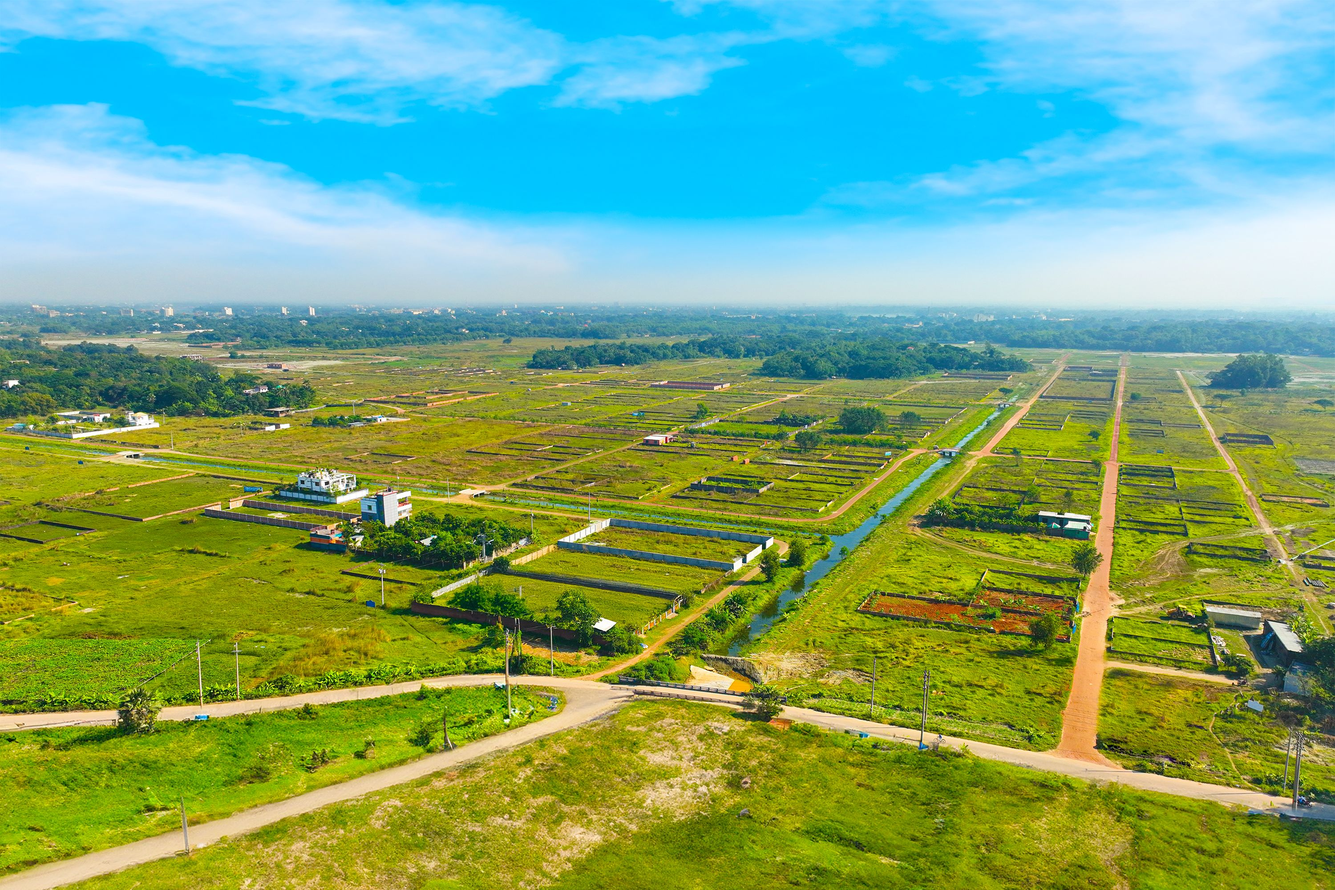
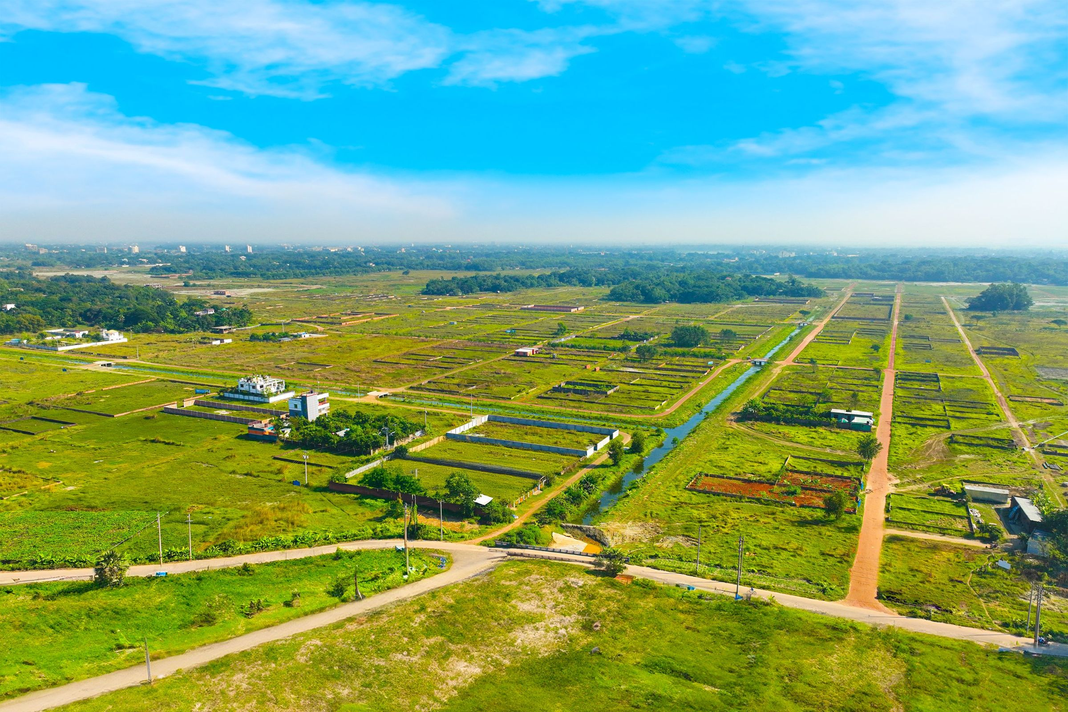
updtaed

diff --git a/components/AboutUsSection.jsx b/components/AboutUsSection.jsx
@@ -7,7 +7,7 @@ export default function AboutUsSection() {
       <div className="max-w-6xl mx-auto">
         <div className="relative w-full md:h-auto h-96 rounded-2xl overflow-hidden shadow-md">
           <Image
-            src="/about.png"
+            src="/about.jpg"
             alt="আমাদের কথা"
             width={1603}
             height={1069}
